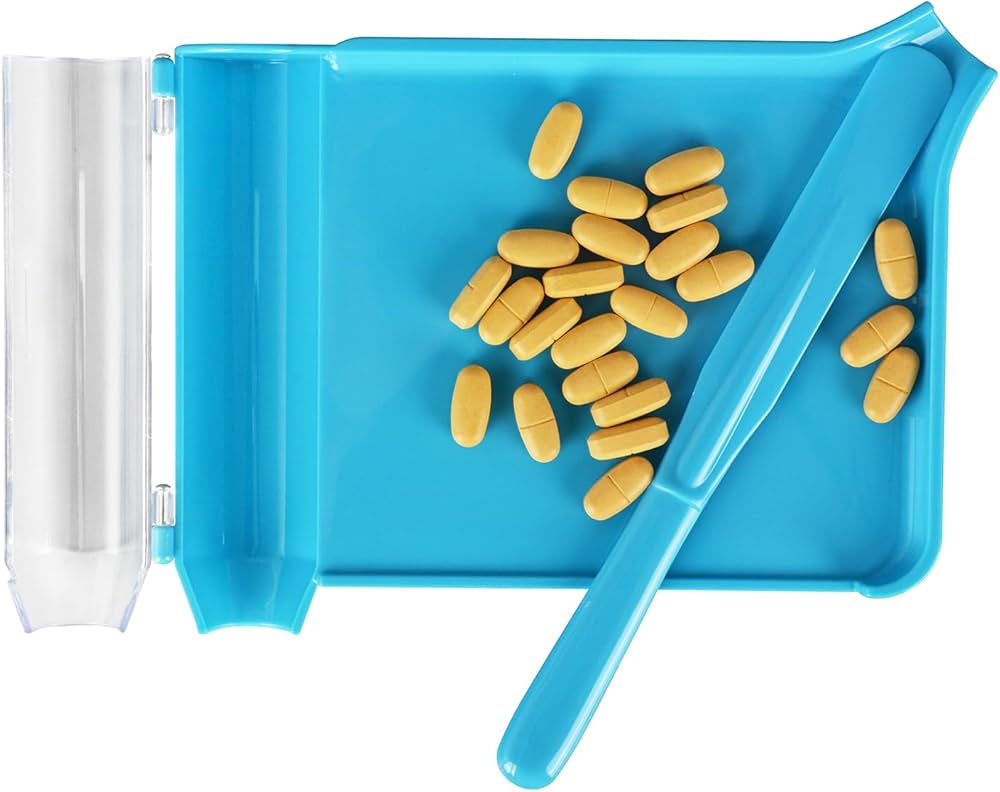
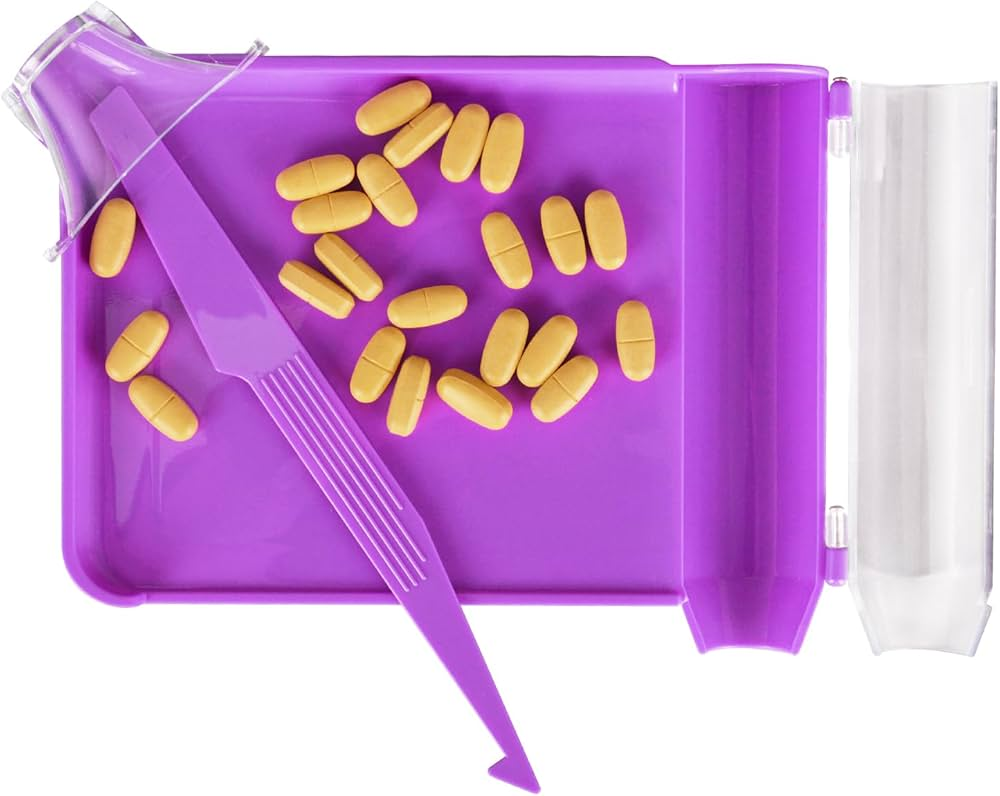
refactor lib to opencv and apirouter, add test img

diff --git a/lib/opencv/init.ts b/lib/opencv/init.ts
@@ -1,0 +1,79 @@
+export type OpenCVRuntime = typeof import("@techstark/opencv-js");
+
+type OpenCVModuleShape = Partial<OpenCVRuntime> & {
+  default?: unknown;
+  cv?: unknown;
+  Mat?: unknown;
+  onRuntimeInitialized?: () => void;
+};
+
+let cvReady: OpenCVRuntime | null = null;
+let cvLoading: Promise<OpenCVRuntime> | null = null;
+
+export async function getCV(): Promise<OpenCVRuntime> {
+  if (cvReady) return cvReady;
+  if (cvLoading) return cvLoading;
+
+  cvLoading = loadCV();
+  cvReady = await cvLoading;
+  return cvReady;
+}
+
+async function loadCV(): Promise<OpenCVRuntime> {
+  const mod = (await import("@techstark/opencv-js")) as OpenCVModuleShape;
+  const candidate = await resolveMaybePromise(mod.default ?? mod.cv ?? mod);
+
+  if (isReadyCV(candidate)) return candidate;
+
+  return waitForRuntime(candidate);
+}
+
+function isReadyCV(value: unknown): value is OpenCVRuntime {
+  return (
+    typeof value === "object" &&
+    value !== null &&
+    typeof (value as OpenCVModuleShape).Mat === "function"
+  );
+}
+
+function isPromiseLike(value: unknown): value is PromiseLike<unknown> {
+  return (
+    typeof value === "object" &&
+    value !== null &&
+    typeof (value as { then?: unknown }).then === "function"
+  );
+}
+
+async function resolveMaybePromise(value: unknown): Promise<unknown> {
+  return isPromiseLike(value) ? value : Promise.resolve(value);
+}
+
+function waitForRuntime(candidate: unknown): Promise<OpenCVRuntime> {
+  return new Promise((resolve, reject) => {
+    const runtime = candidate as OpenCVModuleShape;
+    const startedAt = Date.now();
+    const timeoutMs = 10_000;
+    const previousCallback = runtime.onRuntimeInitialized;
+
+    runtime.onRuntimeInitialized = () => {
+      previousCallback?.();
+      if (isReadyCV(candidate)) resolve(candidate);
+    };
+
+    const poll = () => {
+      if (isReadyCV(candidate)) {
+        resolve(candidate);
+        return;
+      }
+
+      if (Date.now() - startedAt > timeoutMs) {
+        reject(new Error("OpenCV runtime initialization timed out"));
+        return;
+      }
+
+      setTimeout(poll, 25);
+    };
+
+    poll();
+  });
+}

diff --git a/lib/opencv/config.ts b/lib/opencv/config.ts
@@ -1,0 +1,33 @@
+export interface PillCVConfig {
+  maxDimension: number;
+  blurKernelSize: number;
+  adaptiveBlockSize: number;
+  adaptiveC: number;
+  backgroundBorderRatio: number;
+  morphologyKernelSize: number;
+  openIterations: number;
+  closeIterations: number;
+  minForegroundRatio: number;
+  maxForegroundRatio: number;
+  minComponentAreaRatio: number;
+  distanceThresholds: number[];
+  distMaskSize: 3 | 5;
+  debug: boolean;
+}
+
+export const DEFAULT_PILL_CV_CONFIG: PillCVConfig = {
+  maxDimension: 1024,
+  blurKernelSize: 5,
+  adaptiveBlockSize: 31,
+  adaptiveC: 5,
+  backgroundBorderRatio: 0.06,
+  morphologyKernelSize: 3,
+  openIterations: 1,
+  closeIterations: 2,
+  minForegroundRatio: 0.002,
+  maxForegroundRatio: 0.7,
+  minComponentAreaRatio: 0.00004,
+  distanceThresholds: [0.58, 0.48, 0.38],
+  distMaskSize: 5,
+  debug: false,
+};

diff --git a/lib/opencv/types.ts b/lib/opencv/types.ts
@@ -1,0 +1,30 @@
+import type { PillCountResult } from "../types";
+
+export interface PillCountCandidateDebug {
+  name: string;
+  score: number;
+  foregroundRatio: number;
+  borderForegroundRatio: number;
+  componentCount: number;
+  smallComponentRatio: number;
+}
+
+export interface PillCountDebug {
+  image: {
+    width: number;
+    height: number;
+    processedWidth: number;
+    processedHeight: number;
+  };
+  selectedMode: string;
+  foregroundRatio: number;
+  candidateScores: PillCountCandidateDebug[];
+  rejectedComponents: number;
+  sourceComponents: number;
+  clustersSplit: number;
+  warnings: string[];
+}
+
+export interface PillCVResult extends PillCountResult {
+  debug?: PillCountDebug;
+}

diff --git a/lib/types.ts b/lib/types.ts
@@ -1,0 +1,26 @@
+export interface PillPoint {
+  x: number;
+  y: number;
+}
+
+export interface PillCountResult {
+  count: number;
+  points: PillPoint[];
+}
+
+export function isPillCountResult(value: unknown): value is PillCountResult {
+  if (typeof value !== "object" || value === null) return false;
+
+  const result = value as { count?: unknown; points?: unknown };
+  return (
+    typeof result.count === "number" &&
+    Array.isArray(result.points) &&
+    result.points.every(
+      (point) =>
+        typeof point === "object" &&
+        point !== null &&
+        typeof (point as { x?: unknown }).x === "number" &&
+        typeof (point as { y?: unknown }).y === "number"
+    )
+  );
+}